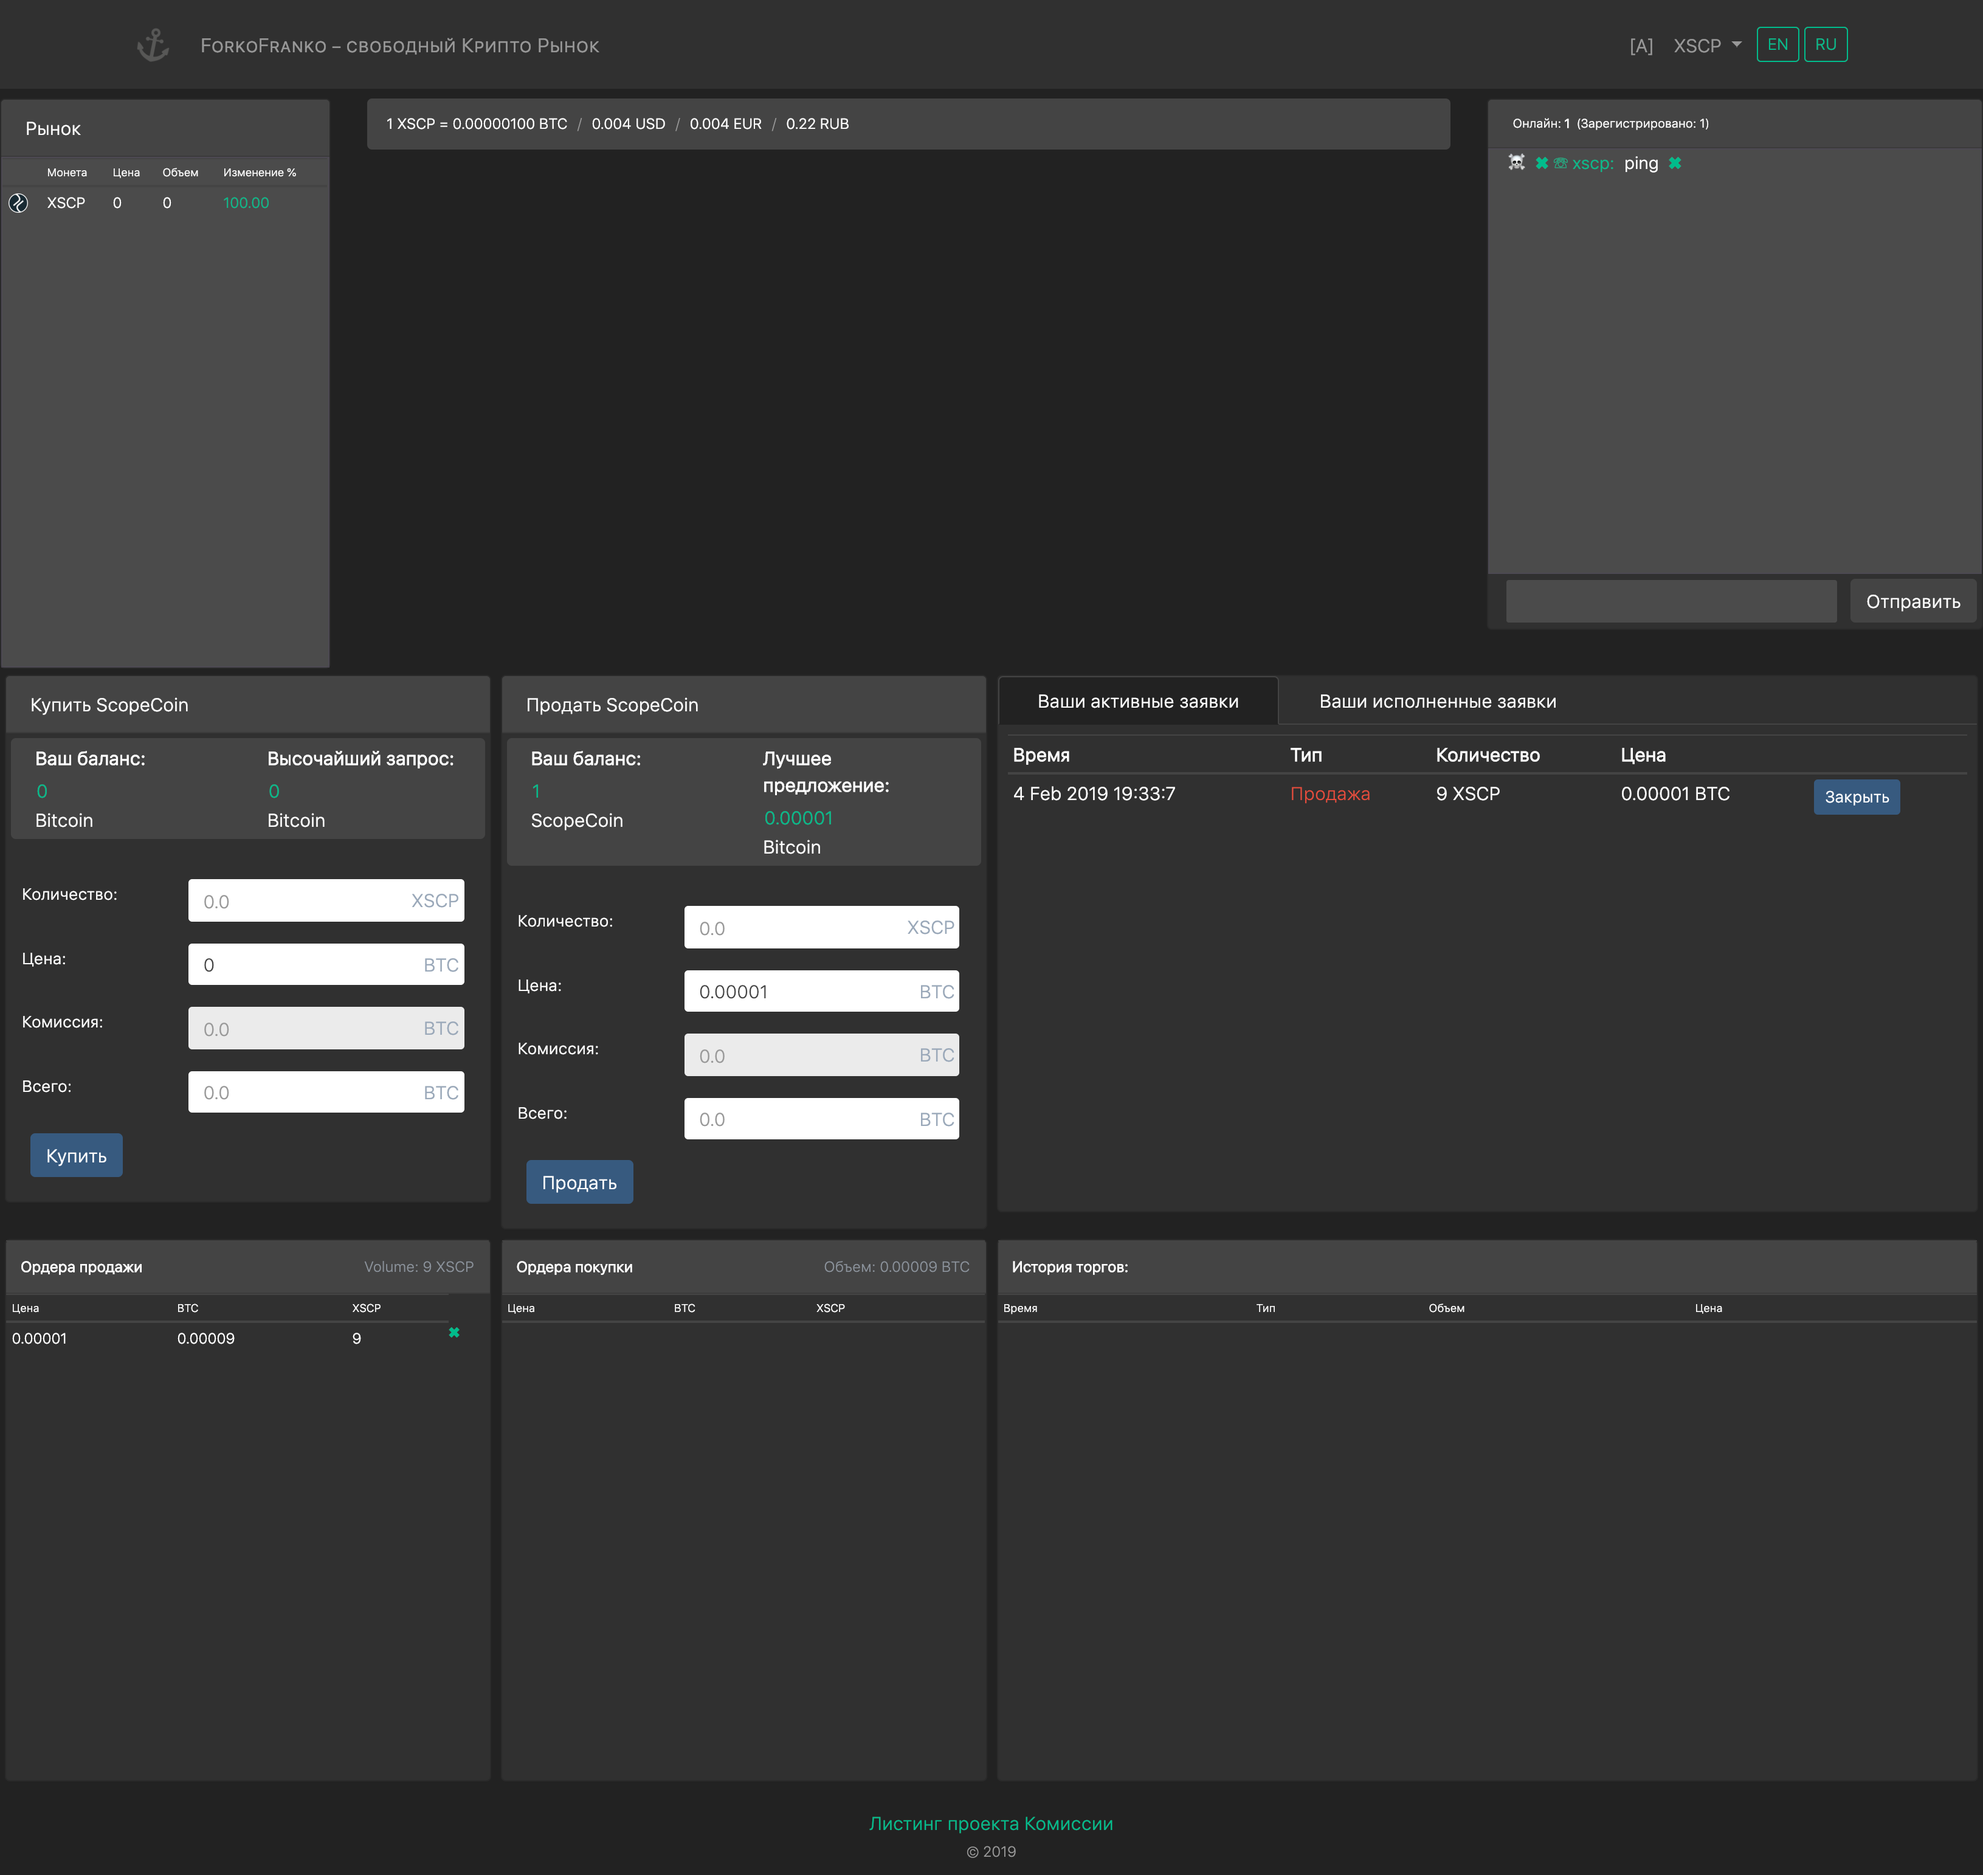
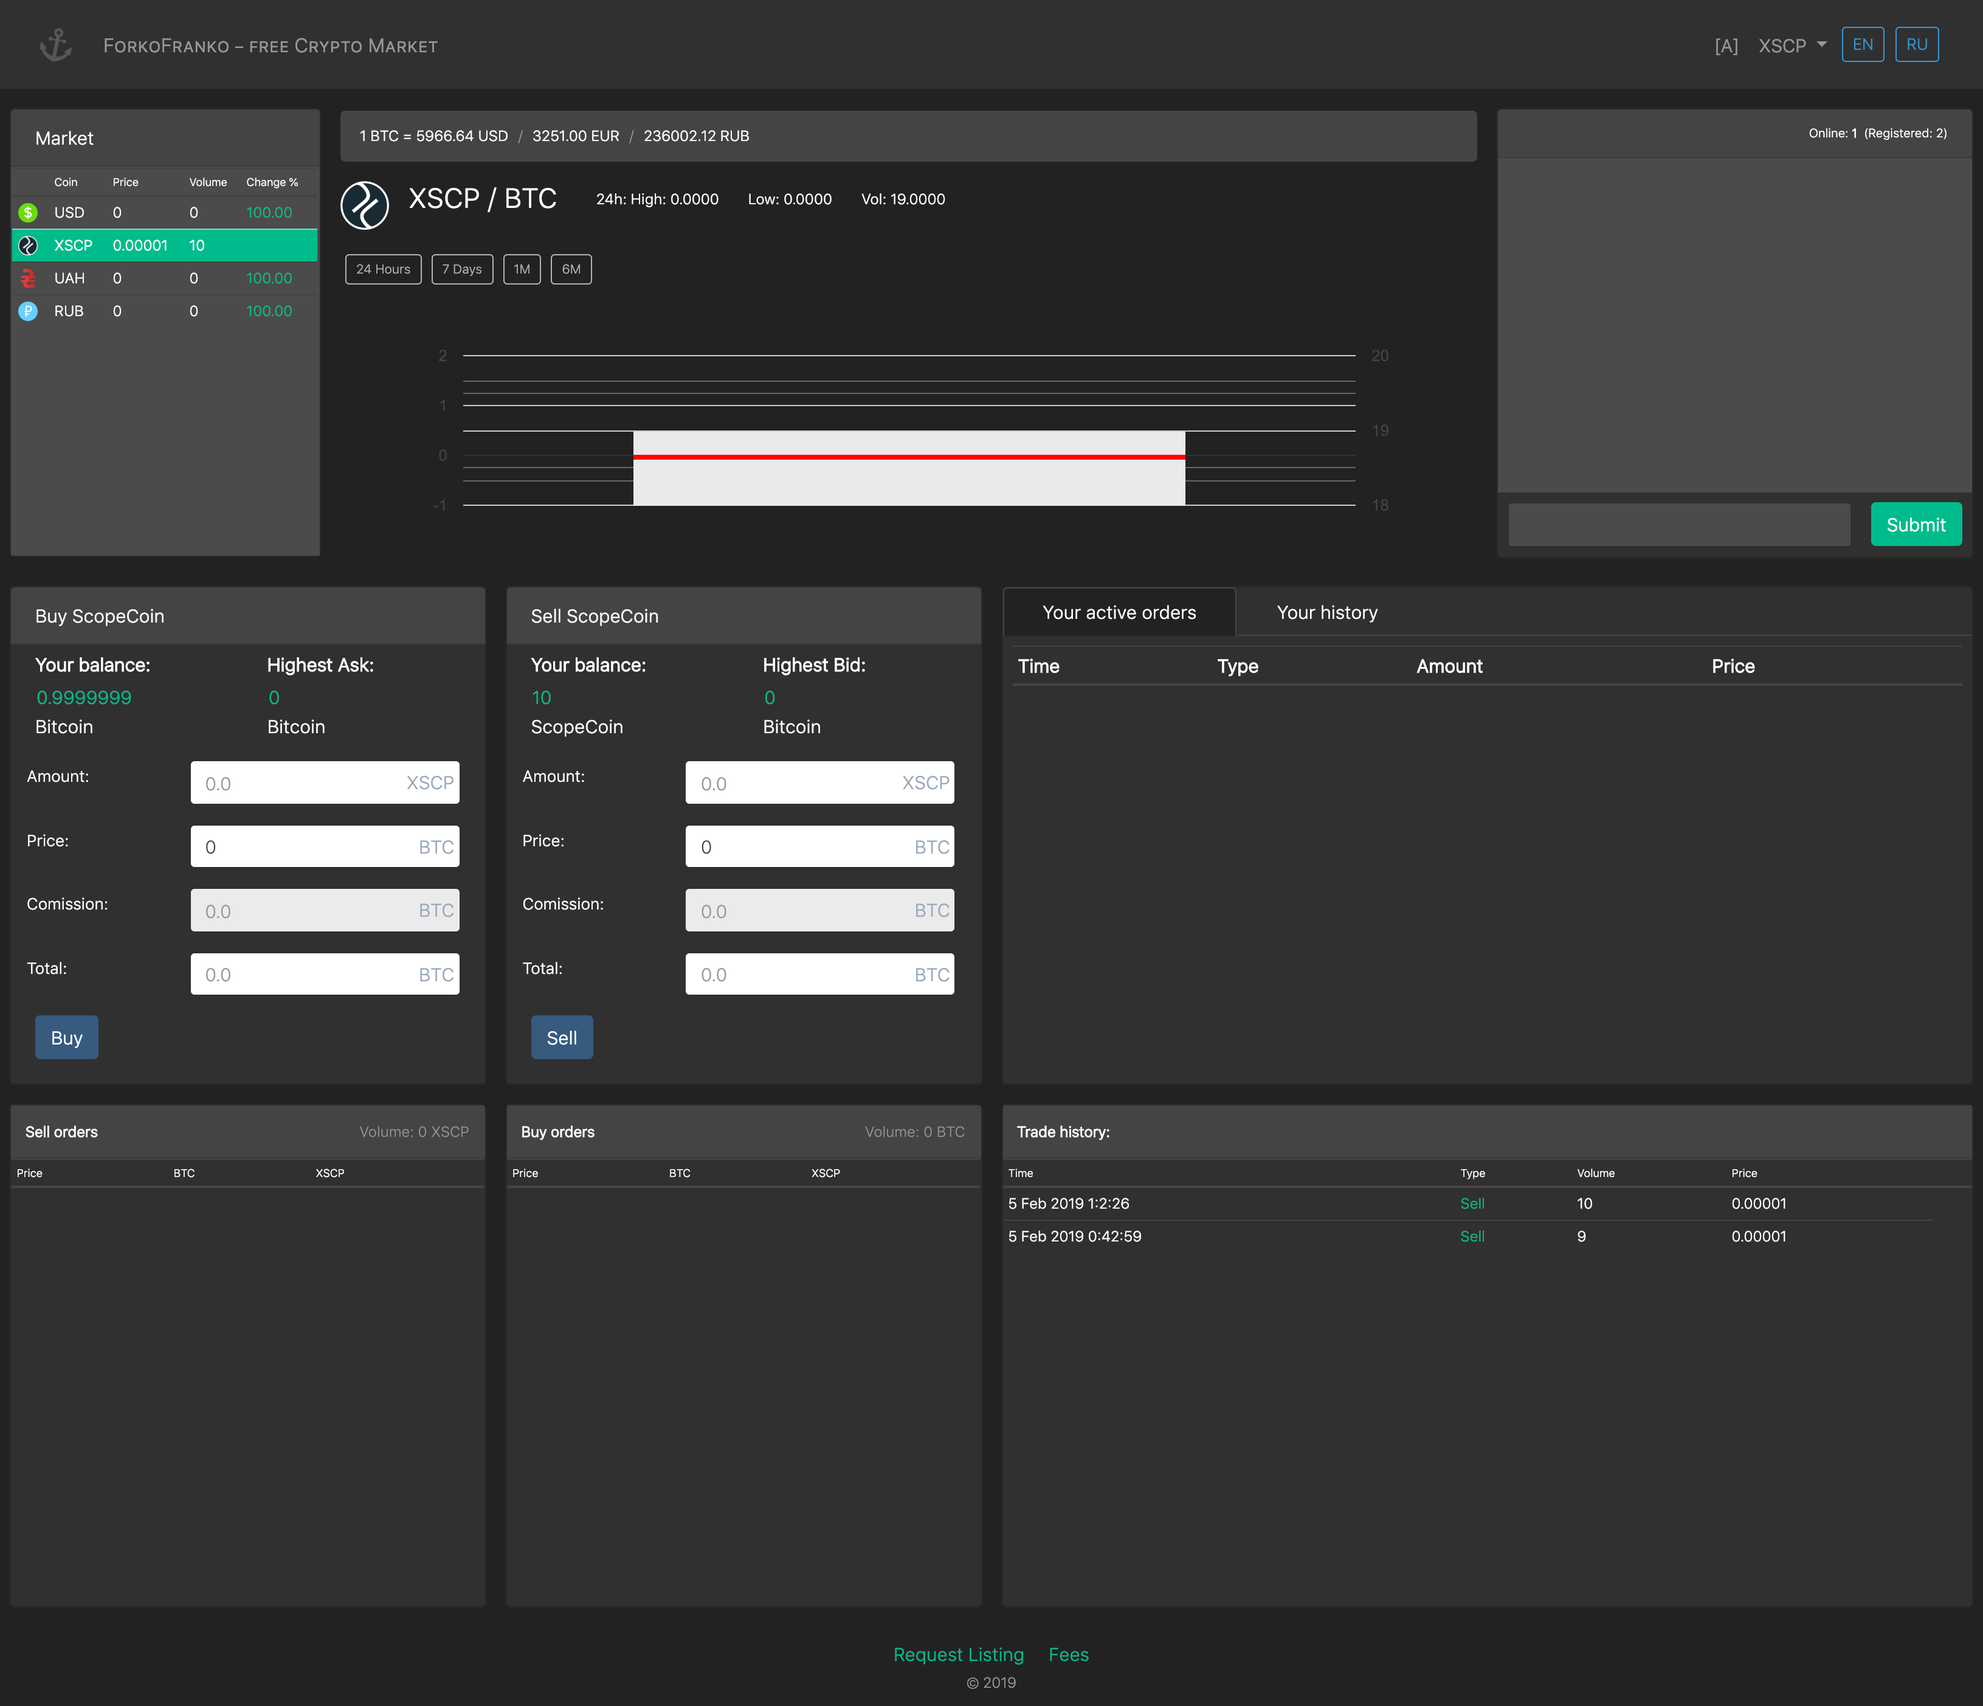
W.I.P

diff --git a/server/dictionary.js b/server/dictionary.js
@@ -31,13 +31,13 @@ exports.object = {
         'Faucet' : ['Faucet', 'Кран'],
         'Forum' : ['Forum', 'Форум'],
         'sell' : ['sell', 'продать'],
-        'Buying' : ['Buying', 'Покупка'],
-        'Selling' : ['Selling', 'Продажа'],
+        'Buying' : ['Buy', 'Покупка'],
+        'Selling' : ['Sell', 'Продажа'],
         'Help' : ['Help', 'Помощь'],
         'Wallet' : ['Wallet', 'Кошелек'],
         'Exchange' : ['Exchange', 'Обменник'],
         'Trade' : ['Trade', 'Биржа'],
-        'Add Coin': ['Add Coin', 'Листинг проекта'],
+        'Add Coin': ['Request Listing', 'Листинг проекта'],
         'Support' : ['Support', 'Поддержка'],
         'Fees' : ['Fees', 'Комиссии'],
         'Admin Area': ['Admin Area', 'Админка'],
@@ -70,8 +70,8 @@ exports.object = {
         "Online": ["Online", "Онлайн"],
         "Registered": ["Registered", "Зарегистрировано"],
         "Close": ["Close", "Закрыть"],
-        "Selling": ["Selling", "Продажа"],
-        "Buying": ["Buying", "Купля"],
+        "Selling": ["Sell", "Продажа"],
+        "Buying": ["Buy", "Купля"],
         "Market": ["Market", "Рынок"],
         "free Crypto Market": ["free Crypto Market", "свободный Крипто Рынок"],
         "Profile": ["Profile", "Профиль"],
